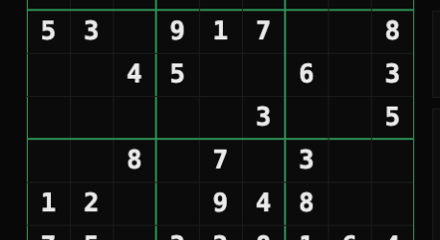
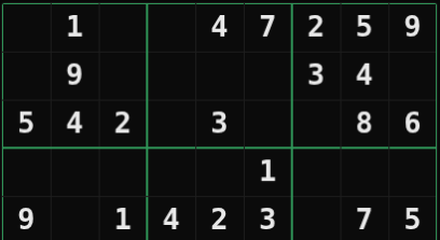
Hub: real lander + sudoku thumbnails; pencil writes without overlay grid
- lander.png: the ship (thrust flaring) descending toward the pad —
  the old thumb didn't show the lander at all
- sudoku.png: crisp capture of a real puzzle, mostly empty cells so the
  hover pencil has room to write without clashing with printed digits
- sudoku hover: drop the fake overlay grid — the thumb has a real one

diff --git a/index.html b/index.html
@@ -246,7 +246,7 @@
   </div>
 
   <div class="card glow-sudoku">
-    <img class="card-thumb" src="/game/thumbs/sudoku.png?v=1" alt="Sudoku grid" loading="lazy" width="440" height="240">
+    <img class="card-thumb" src="/game/thumbs/sudoku.png?v=2" alt="Sudoku grid" loading="lazy" width="440" height="240">
     <div class="card-icon" style="color:#36c5d0">[9]</div>
     <div class="card-title" data-en="sudoku.exe" data-zh="数独.exe">sudoku.exe</div>
     <div class="card-desc" data-en="Fill every row, column and 3×3 box with 1–9. A backtracking generator guarantees one unique solution — with pencil-mark notes, hints, and a one-click solver." data-zh="让每行、每列、每个 3×3 宫格都填入 1–9。回溯生成器保证唯一解——含铅笔笔记、提示与一键求解。">Fill every row, column and 3×3 box with 1–9. A backtracking generator guarantees one unique solution — with pencil-mark notes, hints, and a one-click solver.</div>
@@ -278,7 +278,7 @@
   </div>
 
   <div class="card glow-lander">
-    <img class="card-thumb" src="/game/thumbs/lander.png?v=1" alt="Co-op lunar lander" loading="lazy" width="440" height="240">
+    <img class="card-thumb" src="/game/thumbs/lander.png?v=2" alt="Co-op lunar lander descending to the pad" loading="lazy" width="440" height="240">
     <div class="card-icon" style="color:#e8b04a">[◂▴▸]</div>
     <div class="card-title" data-en="lander.exe" data-zh="登月舱.exe">lander.exe</div>
     <div class="card-desc" data-en="Co-op lunar lander — one of you fires the thrust, the other steers the tilt, both flying one ship — tilt to aim, thrust to push. Land softly and upright on the pad. Play remotely (Create/Join a room) or on one device." data-zh="合作登月——一人控推力，一人控倾斜，共同驾驶一艘飞船——倾斜对准，推力推进。平稳且端正地降落在着陆台。可联机（创建/加入房间）或同设备双人。">Co-op lunar lander — one of you fires the thrust, the other steers the tilt, both flying one ship — tilt to aim, thrust to push. Land softly and upright on the pad. Play remotely (Create/Join a room) or on one device.</div>
@@ -950,9 +950,7 @@ document.addEventListener('DOMContentLoaded', applyLang);
   }
   function frame() {
     ctx.clearRect(0, 0, W, H);
-    // faint graphite grid over the thumbnail, heavier every 3rd line (3×3 boxes)
-    for (let x = 0; x <= cols; x++) { ctx.strokeStyle = 'rgba(160,175,190,' + (x % 3 ? 0.08 : 0.17) + ')'; ctx.lineWidth = 1; ctx.beginPath(); ctx.moveTo(x * C + 0.5, 0); ctx.lineTo(x * C + 0.5, rows * C); ctx.stroke(); }
-    for (let y = 0; y <= rows; y++) { ctx.strokeStyle = 'rgba(160,175,190,' + (y % 3 ? 0.08 : 0.17) + ')'; ctx.beginPath(); ctx.moveTo(0, y * C + 0.5); ctx.lineTo(cols * C, y * C + 0.5); ctx.stroke(); }
+    // the thumbnail is a real grid now — no overlay grid, just the pencil work
     let tip = null, writing = false;
     for (const m of marks) {
       if (m.dying) { m.alpha -= 0.02; continue; }